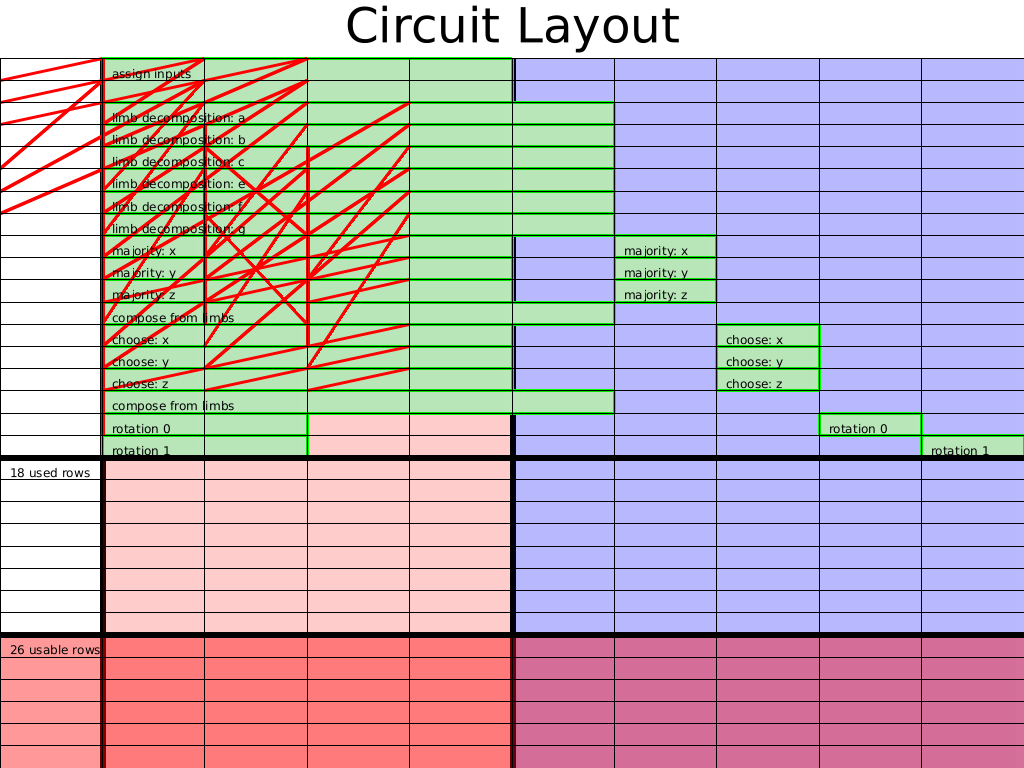
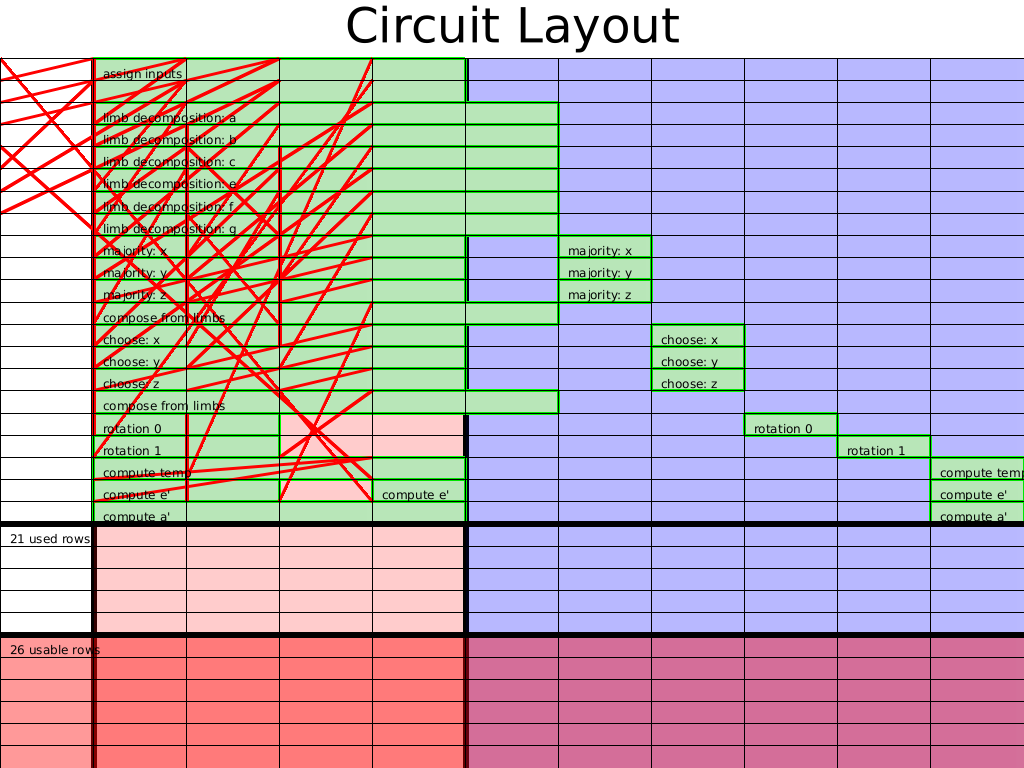
final additions

Changed region(s): [[0.0, 0.0625, 1.0, 1.0], [0.4375, 0.0625, 0.5312, 0.1562]]

diff --git a/sha/src/circuit/synthesis/final.rs b/sha/src/circuit/synthesis/final.rs
@@ -1,0 +1,108 @@
+use halo2_proofs::{
+    arithmetic::Field, circuit::Layouter, halo2curves::pairing::MultiMillerLoop, plonk::Error,
+};
+
+use crate::circuit::{config::ShaConfig, synthesis::CelledValue};
+
+pub struct FinalInput<'assign, 'cell, F: Field> {
+    pub row_offset: usize,
+
+    pub d: &'cell CelledValue<'assign, F>,
+    pub h: &'cell CelledValue<'assign, F>,
+    pub choose: &'cell CelledValue<'assign, F>,
+    pub maj: &'cell CelledValue<'assign, F>,
+    pub rot0a: &'cell CelledValue<'assign, F>,
+    pub rot1e: &'cell CelledValue<'assign, F>,
+}
+
+pub fn finalize_round<'assign, E: MultiMillerLoop>(
+    layouter: &mut impl Layouter<E::Scalar, E = E>,
+    config: &ShaConfig,
+    input: FinalInput<E::Scalar>,
+) -> Result<(), Error> {
+    let temp = layouter.assign_region(
+        || "compute temp",
+        |mut region| {
+            config.addition_selector().enable(&mut region, input.row_offset)?;
+
+            let h_cell =
+                region.assign_advice(config.advices[0], input.row_offset, input.h.value)?;
+            region.constrain_equal(input.h.cell.cell(), h_cell.cell());
+
+            let rot1e_cell =
+                region.assign_advice(config.advices[1], input.row_offset, input.rot1e.value)?;
+            region.constrain_equal(input.rot1e.cell.cell(), rot1e_cell.cell());
+
+            let ch_cell =
+                region.assign_advice(config.advices[2], input.row_offset, input.choose.value)?;
+            region.constrain_equal(input.choose.cell.cell(), ch_cell.cell());
+
+            let temp_value = input.h.value + input.rot1e.value + input.choose.value;
+            let temp_cell =
+                region.assign_advice(config.advices[3], input.row_offset, temp_value)?;
+
+            Ok(CelledValue {
+                value: temp_value,
+                cell: temp_cell,
+            })
+        },
+    )?;
+
+    let e_prime = layouter.assign_region(
+        || "compute e'",
+        |mut region| {
+            config.addition_selector().enable(&mut region, input.row_offset + 1)?;
+
+            let temp_cell =
+                region.assign_advice(config.advices[0], input.row_offset + 1, temp.value)?;
+            region.constrain_equal(temp.cell.cell(), temp_cell.cell());
+
+            let d_cell =
+                region.assign_advice(config.advices[1], input.row_offset + 1, input.d.value)?;
+            region.constrain_equal(input.d.cell.cell(), d_cell.cell());
+
+            let e_prime_value = temp.value + input.d.value;
+            let e_prime_cell =
+                region.assign_advice(config.advices[3], input.row_offset + 1, e_prime_value)?;
+
+            Ok(CelledValue {
+                value: e_prime_value,
+                cell: e_prime_cell,
+            })
+        },
+    )?;
+
+    layouter.constrain_instance(*e_prime.cell.cell(), config.instance, 4);
+
+    let a_prime = layouter.assign_region(
+        || "compute a'",
+        |mut region| {
+            config.addition_selector().enable(&mut region, input.row_offset + 2)?;
+
+            let temp_cell =
+                region.assign_advice(config.advices[0], input.row_offset + 2, temp.value)?;
+            region.constrain_equal(temp.cell.cell(), temp_cell.cell());
+
+            let rot0a_cell =
+                region.assign_advice(config.advices[1], input.row_offset + 2, input.rot0a.value)?;
+            region.constrain_equal(input.rot0a.cell.cell(), rot0a_cell.cell());
+
+            let maj_cell =
+                region.assign_advice(config.advices[2], input.row_offset + 2, input.maj.value)?;
+            region.constrain_equal(input.maj.cell.cell(), maj_cell.cell());
+
+            let a_prime_value = temp.value + input.rot0a.value + input.maj.value;
+            let a_prime_cell =
+                region.assign_advice(config.advices[3], input.row_offset + 2, a_prime_value)?;
+
+            Ok(CelledValue {
+                value: a_prime_value,
+                cell: a_prime_cell,
+            })
+        },
+    )?;
+
+    layouter.constrain_instance(*a_prime.cell.cell(), config.instance, 0);
+
+    Ok(())
+}

diff --git a/sha/src/circuit.rs b/sha/src/circuit.rs
@@ -3,6 +3,7 @@ mod synthesis;
 mod tables;
 #[cfg(test)]
 mod tests;
+mod gates;
 
 use std::marker::PhantomData;
 
@@ -16,9 +17,9 @@ use crate::{
     circuit::{
         config::ShaConfig,
         synthesis::{
-            bitwise_choose, bitwise_majority, compose, decompose, initial_assignment, rotation0,
-            rotation1, BitwiseInput, CelledValue, LimbCompositionInput, LimbDecompositionInput,
-            RotationInput,
+            bitwise_choose, bitwise_majority, compose, decompose, finalize_round,
+            initial_assignment, rotation0, rotation1, BitwiseInput, CelledValue, FinalInput,
+            LimbCompositionInput, LimbDecompositionInput, RotationInput,
         },
         tables::{
             configure_choose_table, configure_decomposition_table, configure_majority_table,
@@ -27,6 +28,7 @@ use crate::{
     },
     tables::Limbs,
 };
+use crate::circuit::gates::configure_addition_gate;
 
 #[derive(Debug, Clone)]
 pub struct ShaCircuit<E: MultiMillerLoop, L> {
@@ -134,6 +136,8 @@ impl<E: MultiMillerLoop, L: Limbs> Circuit<E> for ShaCircuit<E, L> {
         configure_rot0_table(meta, &config);
         configure_rot1_table(meta, &config);
 
+        configure_addition_gate(meta, &config);
+
         config
     }
 
@@ -231,6 +235,23 @@ impl<E: MultiMillerLoop, L: Limbs> Circuit<E> for ShaCircuit<E, L> {
             RotationInput {
                 row_offset: 17,
                 input: &input_cells[4],
+            },
+        )?;
+
+        // ====================
+        // Compute temp, e', a'
+        // ====================
+        finalize_round(
+            &mut layouter,
+            &config,
+            FinalInput {
+                row_offset: 18,
+                d: &input_cells[3],
+                h: &input_cells[7],
+                choose: &choose,
+                maj: &majority,
+                rot0a: &rot_0,
+                rot1e: &rot_1,
             },
         )?;
 

diff --git a/sha/src/circuit/gates.rs b/sha/src/circuit/gates.rs
@@ -1,0 +1,16 @@
+use halo2_proofs::{arithmetic::Field, plonk::ConstraintSystem, poly::Rotation};
+
+use crate::circuit::config::ShaConfig;
+
+pub fn configure_addition_gate<F: Field>(meta: &mut ConstraintSystem<F>, config: &ShaConfig) {
+    meta.create_gate("addition", |meta| {
+        let selector = meta.query_selector(config.addition_selector());
+
+        let x = meta.query_advice(config.advices[0], Rotation::cur());
+        let y = meta.query_advice(config.advices[1], Rotation::cur());
+        let z = meta.query_advice(config.advices[2], Rotation::cur());
+        let result = meta.query_advice(config.advices[3], Rotation::cur());
+
+        vec![selector * (x + y + z - result)]
+    });
+}

diff --git a/sha/src/circuit/config.rs b/sha/src/circuit/config.rs
@@ -4,7 +4,7 @@ use halo2_proofs::{
 };
 
 pub const ADVICE_NUM: usize = 4;
-pub const LOOKUP_SELECTOR_NUM: usize = 5;
+pub const LOOKUP_SELECTOR_NUM: usize = 6;
 
 #[derive(Clone, Debug)]
 pub struct ShaConfig {
@@ -60,5 +60,9 @@ impl ShaConfig {
 
     pub fn rot1_selector(&self) -> Selector {
         self.lookup_selectors[4]
+    }
+
+    pub fn addition_selector(&self) -> Selector {
+        self.lookup_selectors[5]
     }
 }

diff --git a/sha/src/circuit/synthesis.rs b/sha/src/circuit/synthesis.rs
@@ -12,7 +12,10 @@ use halo2_proofs::{
 pub use initial_assignment::*;
 pub use limb_composition::*;
 pub use limb_decomposition::*;
+pub use r#final::*;
+mod r#final;
 mod rotation;
+
 pub use rotation::*;
 pub struct CelledValue<'assign, F: Field> {
     pub cell: AssignedCell<&'assign Assigned<F>, F>,

diff --git a/sha/src/circuit/tests.rs b/sha/src/circuit/tests.rs
@@ -79,7 +79,7 @@ fn test_positive_case() {
             0.into(),
             1.into(),
             2.into(),
-            3.into(),
+            10.into(),
             4.into(),
             5.into(),
             6.into(),
